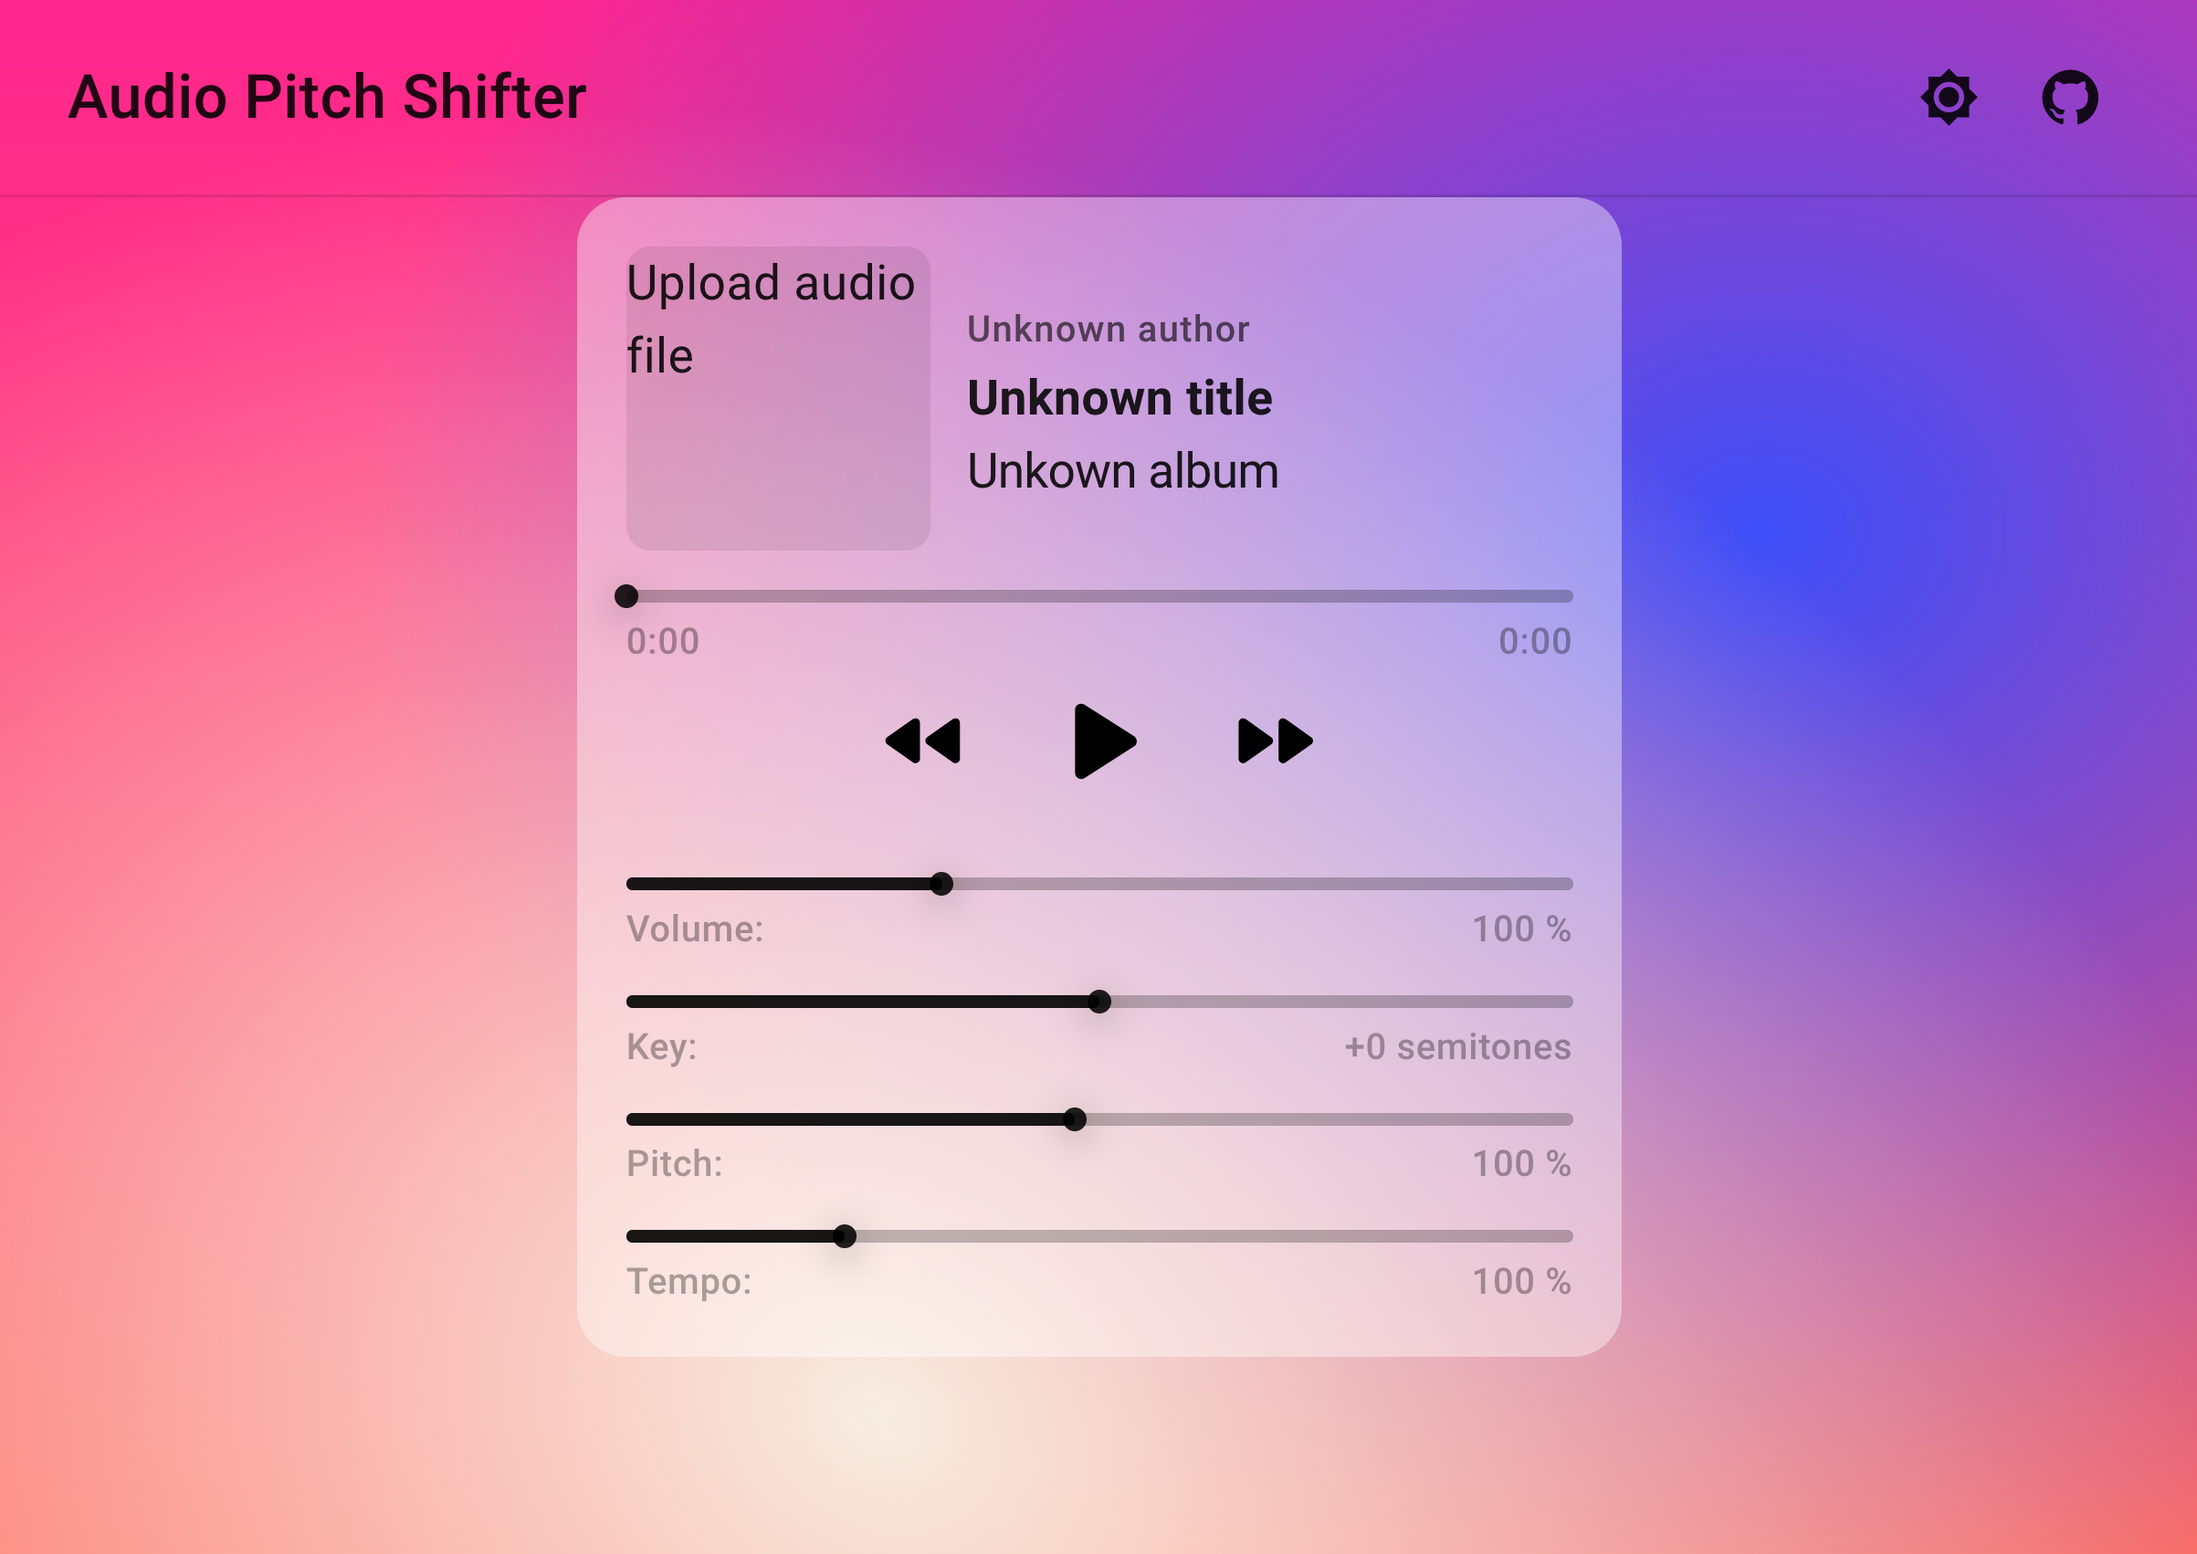
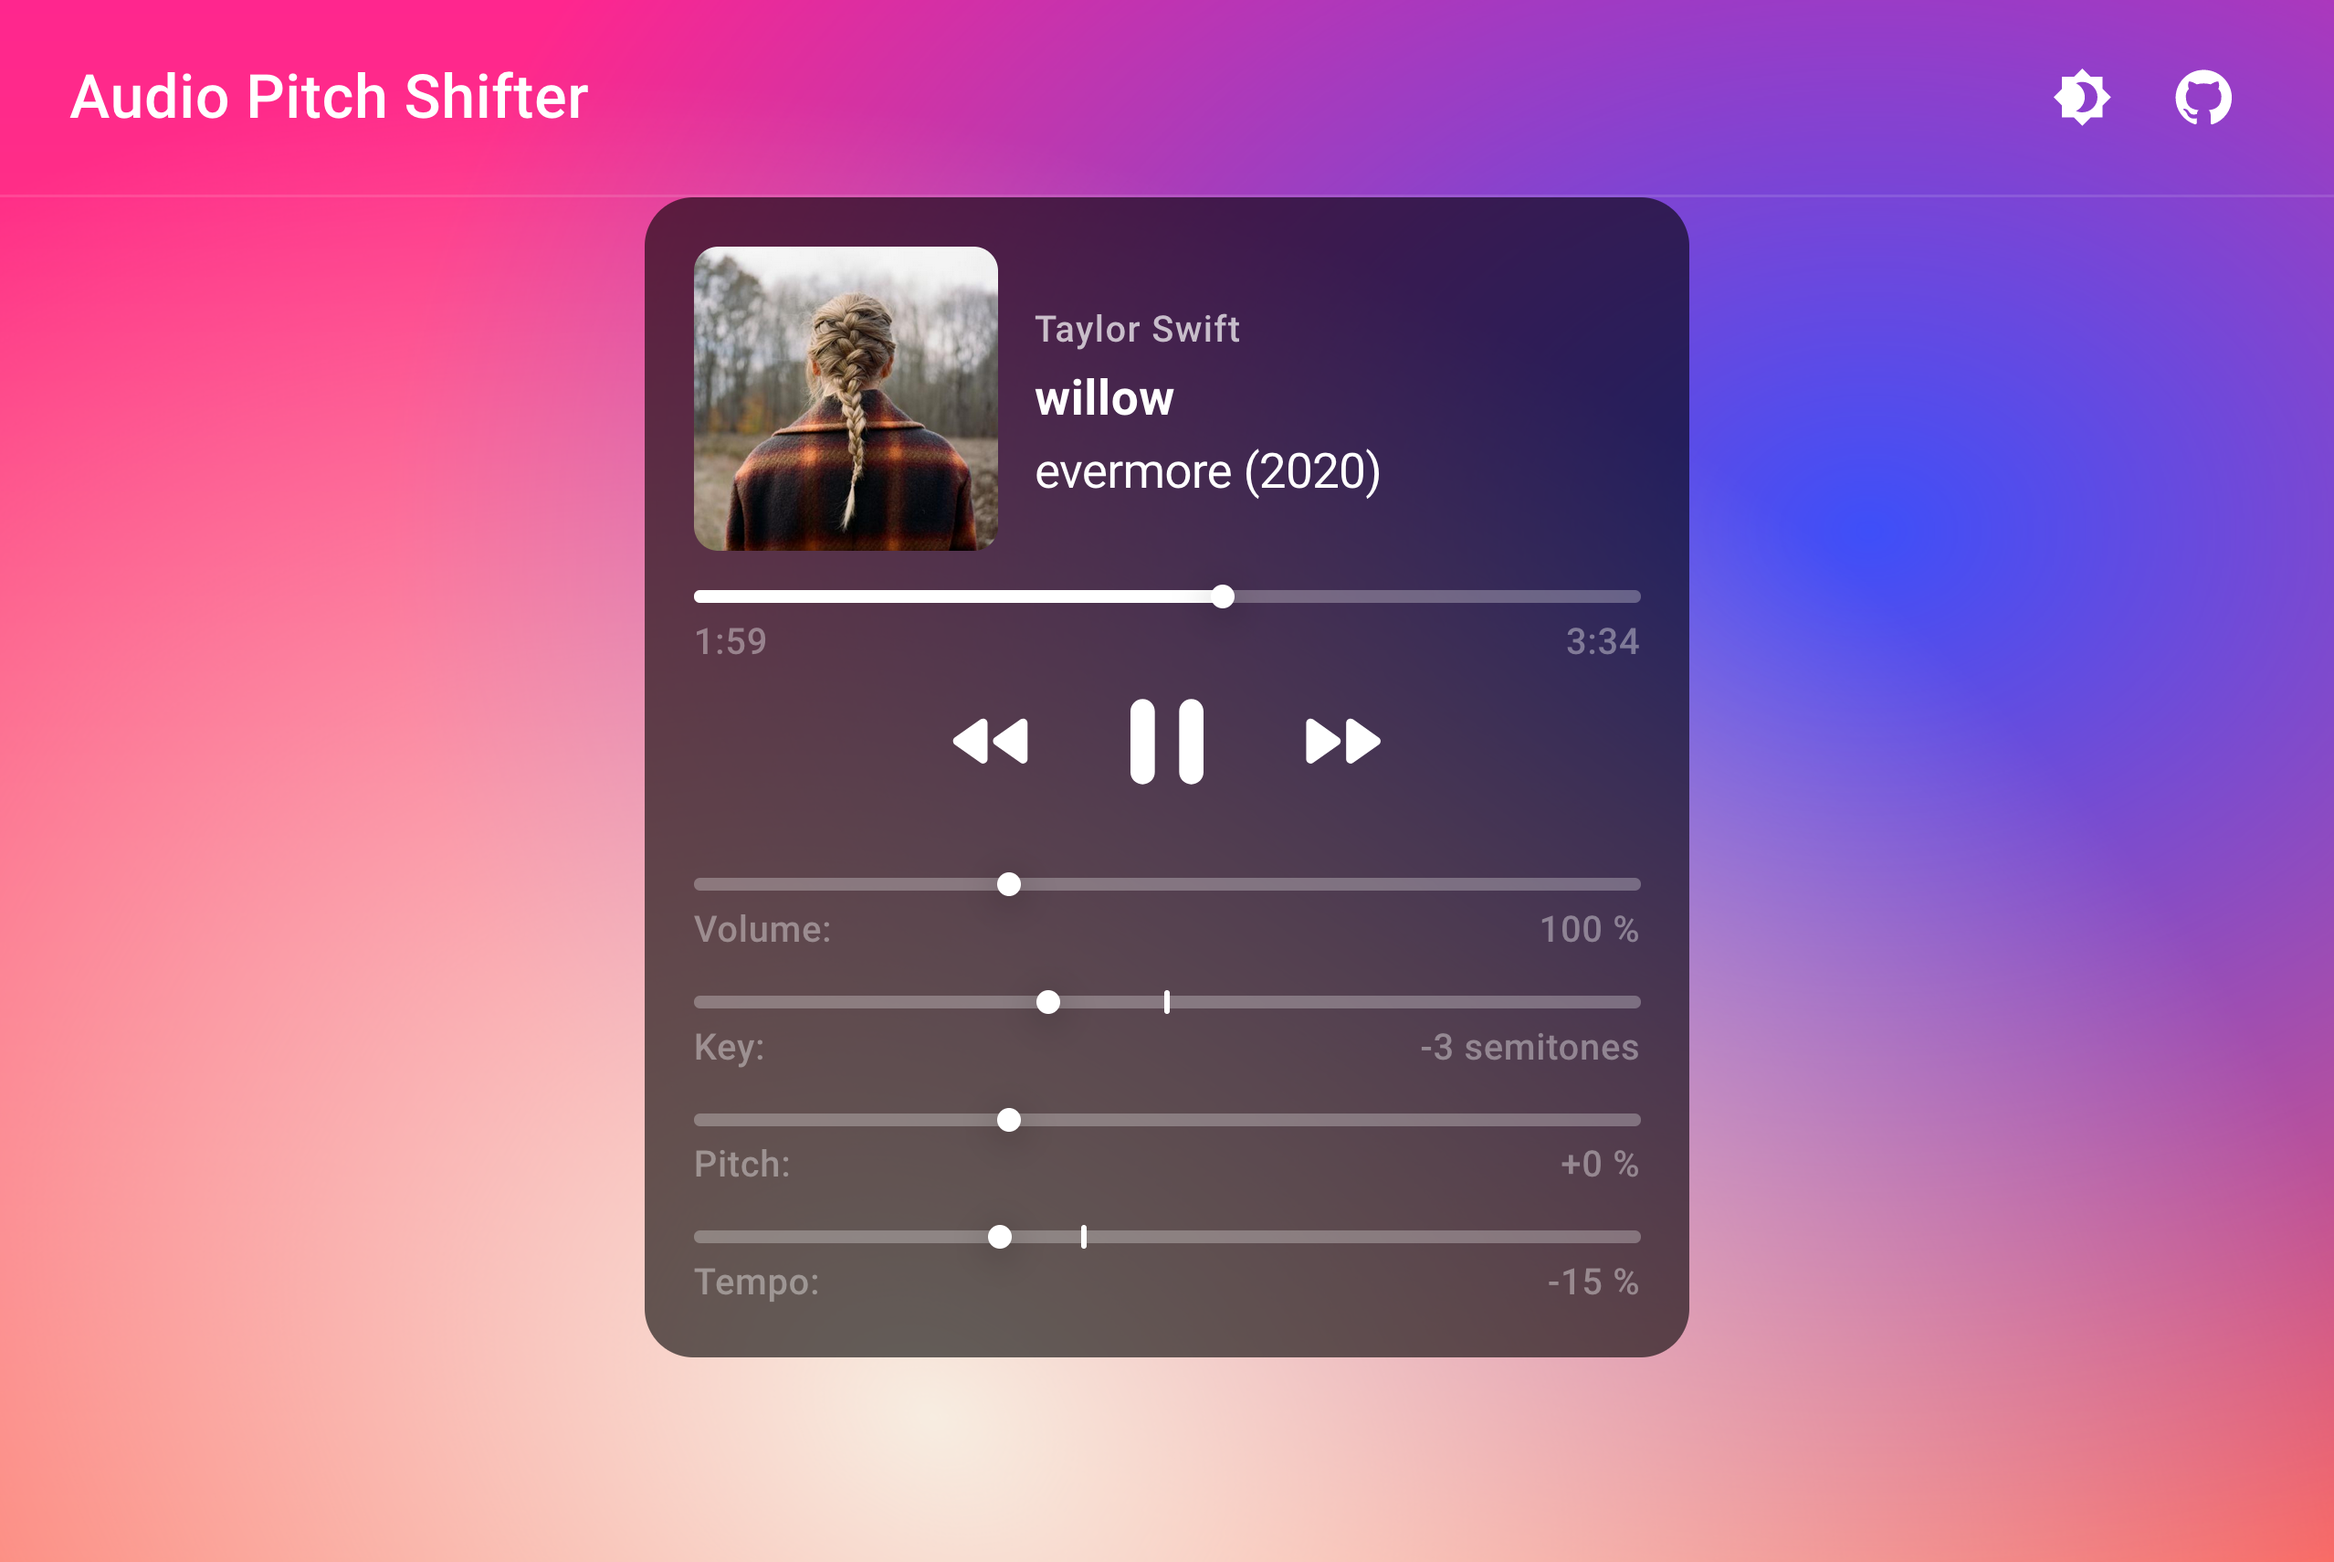
Update default data and preview

diff --git a/src/components/LoadButton.js b/src/components/LoadButton.js
@@ -35,15 +35,14 @@ export const LoadButton = () => {
       id3
         .fromFile(file)
         .then((tags) => {
-          console.log(tags);
-          const title = tags.title || 'Unknown title';
-          const artist = tags.artist || 'Unknown artist';
-          const album = tags.album || 'Unknown album';
-          const year = tags.year || 'Unknown year';
+          const title = tags.title || 'Title';
+          const artist = tags.artist || 'Artist';
+          const album = tags.album || 'Album';
+          const year = tags.year || 'Year';
           const image = tags.images[0];
           if (image && image.data) {
             const blob = new Blob([image.data]);
-            const url = URL.createObjectURL(blob);
+            const url = URL.createObjectURL(blob) || '/logo512.png';
             setCover(url);
           }
           const fileTags = { title, artist, album, year };
@@ -51,7 +50,7 @@ export const LoadButton = () => {
         })
         .catch((error) => {});
     } else {
-      window.alert('Please upload only files in .mp3 format');
+      window.alert('Please upload files in .mp3 format only');
     }
   };
   return (

diff --git a/src/components/PlayerContext.js b/src/components/PlayerContext.js
@@ -14,7 +14,12 @@ export const PlayerProvider = ({ audioCtx, gainNode, ...props }) => {
   const [duration, setDuration] = useState('0:00');
   const [progress, setProgress] = useState(0);
   const [shifter, setShifter] = useState();
-  const [fileTags, setFileTags] = useState('Unknown title');
+  const [fileTags, setFileTags] = useState({
+    title: 'Title',
+    artist: 'Artist',
+    album: 'Album',
+    year: 'Year',
+  });
 
   const value = useMemo(
     () => ({

diff --git a/src/components/AudioPlayer.js b/src/components/AudioPlayer.js
@@ -104,7 +104,7 @@ export const AudioPlayer = () => {
               <b>{fileTags.title}</b>
             </Typography>
             <Typography noWrap letterSpacing={-0.25}>
-              {fileTags.album}, {fileTags.year}
+              {fileTags.album} ({fileTags.year})
             </Typography>
           </Box>
         </Box>
